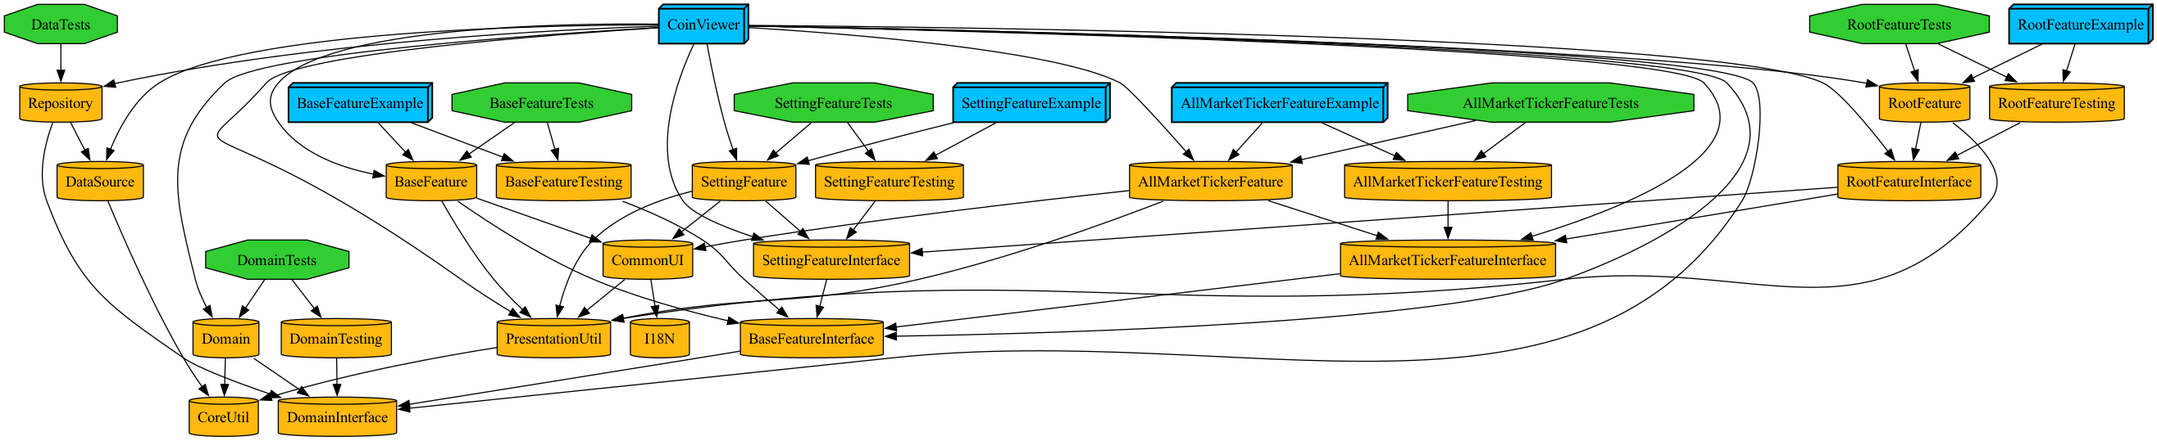
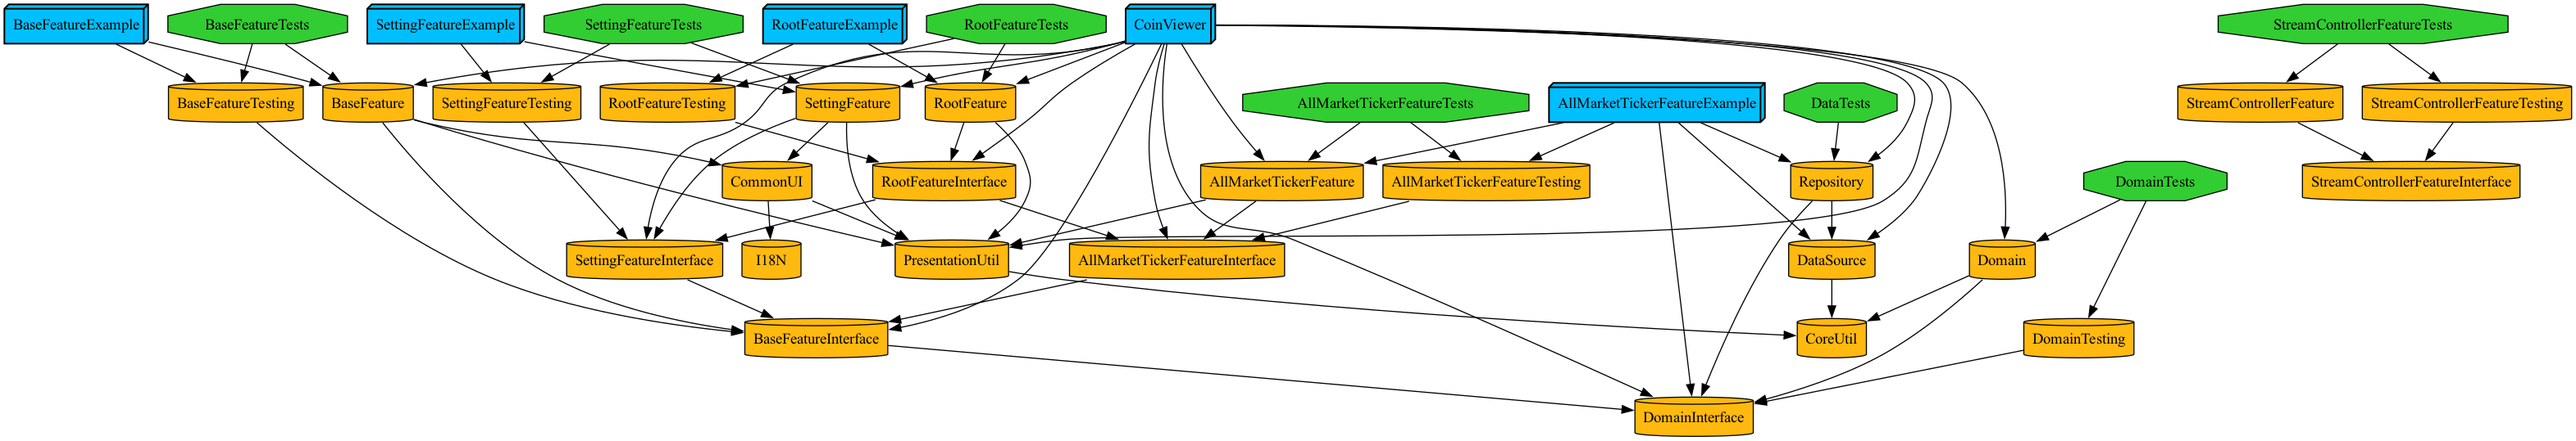
[CVW-005] [Feat] StreamController모듈 생성

diff --git a/Projects/Features/StreamController/Project.swift b/Projects/Features/StreamController/Project.swift
@@ -1,0 +1,68 @@
+//
+//  Project.swift
+//
+//  Created by choijunios on 2024/11/15
+//
+
+import ProjectDescription
+import ConfigurationPlugin
+import DependencyPlugin
+
+let project = Project(
+    name: "StreamControllerModule",
+    targets: [
+
+        // Tests
+        .target(
+            name: "StreamControllerFeatureTests",
+            destinations: .iOS,
+            product: .unitTests,
+            bundleId: "com.choijunios.feature.StreamController.tests",
+            sources: ["Tests/**"],
+            dependencies: [
+                .target(name: "StreamControllerFeature"),
+                .target(name: "StreamControllerFeatureTesting"),
+            ]
+        ),
+
+
+        // Feature
+        .target(
+            name: "StreamControllerFeature",
+            destinations: .iOS,
+            product: .framework,
+            bundleId: "com.choijunios.feature.StreamController",
+            sources: ["Feature/Sources/**"],
+            resources: ["Feature/Resources/**"],
+            dependencies: [
+                .target(name: "StreamControllerFeatureInterface"),
+            ]
+        ),
+
+
+        // Testing
+        .target(
+            name: "StreamControllerFeatureTesting",
+            destinations: .iOS,
+            product: .framework,
+            bundleId: "com.choijunios.feature.StreamController.testing",
+            sources: ["Testing/**"],
+            dependencies: [
+                .target(name: "StreamControllerFeatureInterface"),
+            ]
+        ),
+
+
+        // FeatureInterface
+        .target(
+            name: "StreamControllerFeatureInterface",
+            destinations: .iOS,
+            product: .framework,
+            bundleId: "com.choijunios.feature.StreamController.interface",
+            sources: ["Interface/**"],
+            dependencies: [
+                
+            ]
+        ),
+    ]
+)

diff --git a/Projects/Features/StreamController/Interface/StreamController.swift b/Projects/Features/StreamController/Interface/StreamController.swift
@@ -1,0 +1,16 @@
+//
+//  StreamController.swift
+//  StreamControllerModule
+//
+//  Created by choijunios on 11/15/24.
+//
+
+public protocol StreamController {
+    
+    /// 스트림 연결을 요청합니다.
+    func requestSubscribeToStream(streams: [String])
+    
+    
+    /// 스트림 연결을 끊을 것을 요청합니다.
+    func requestUnsubscribeToStream(streams: [String])
+}

diff --git a/Projects/Features/StreamController/Feature/Sources/SampleViewController.swift b/Projects/Features/StreamController/Feature/Sources/SampleViewController.swift
@@ -1,0 +1,11 @@
+//
+//  SampleViewController.swift
+//  ProjectDescriptionHelpers
+//
+//
+
+import UIKit
+
+class SampleViewController: UIViewController {
+
+}

diff --git a/Projects/Features/StreamController/Testing/Testing.swift b/Projects/Features/StreamController/Testing/Testing.swift
@@ -1,0 +1,6 @@
+//
+//  Testing.swift
+//
+//
+
+import Foundation

diff --git a/Projects/Features/StreamController/Tests/Tests.swift b/Projects/Features/StreamController/Tests/Tests.swift
@@ -1,0 +1,6 @@
+//
+//  Tests.swift
+//
+//
+
+import Foundation

diff --git a/Projects/Features/StreamController/Feature/Resources/Empty.md b/Projects/Features/StreamController/Feature/Resources/Empty.md
@@ -1,0 +1,2 @@
+#  <#Title#>
+
